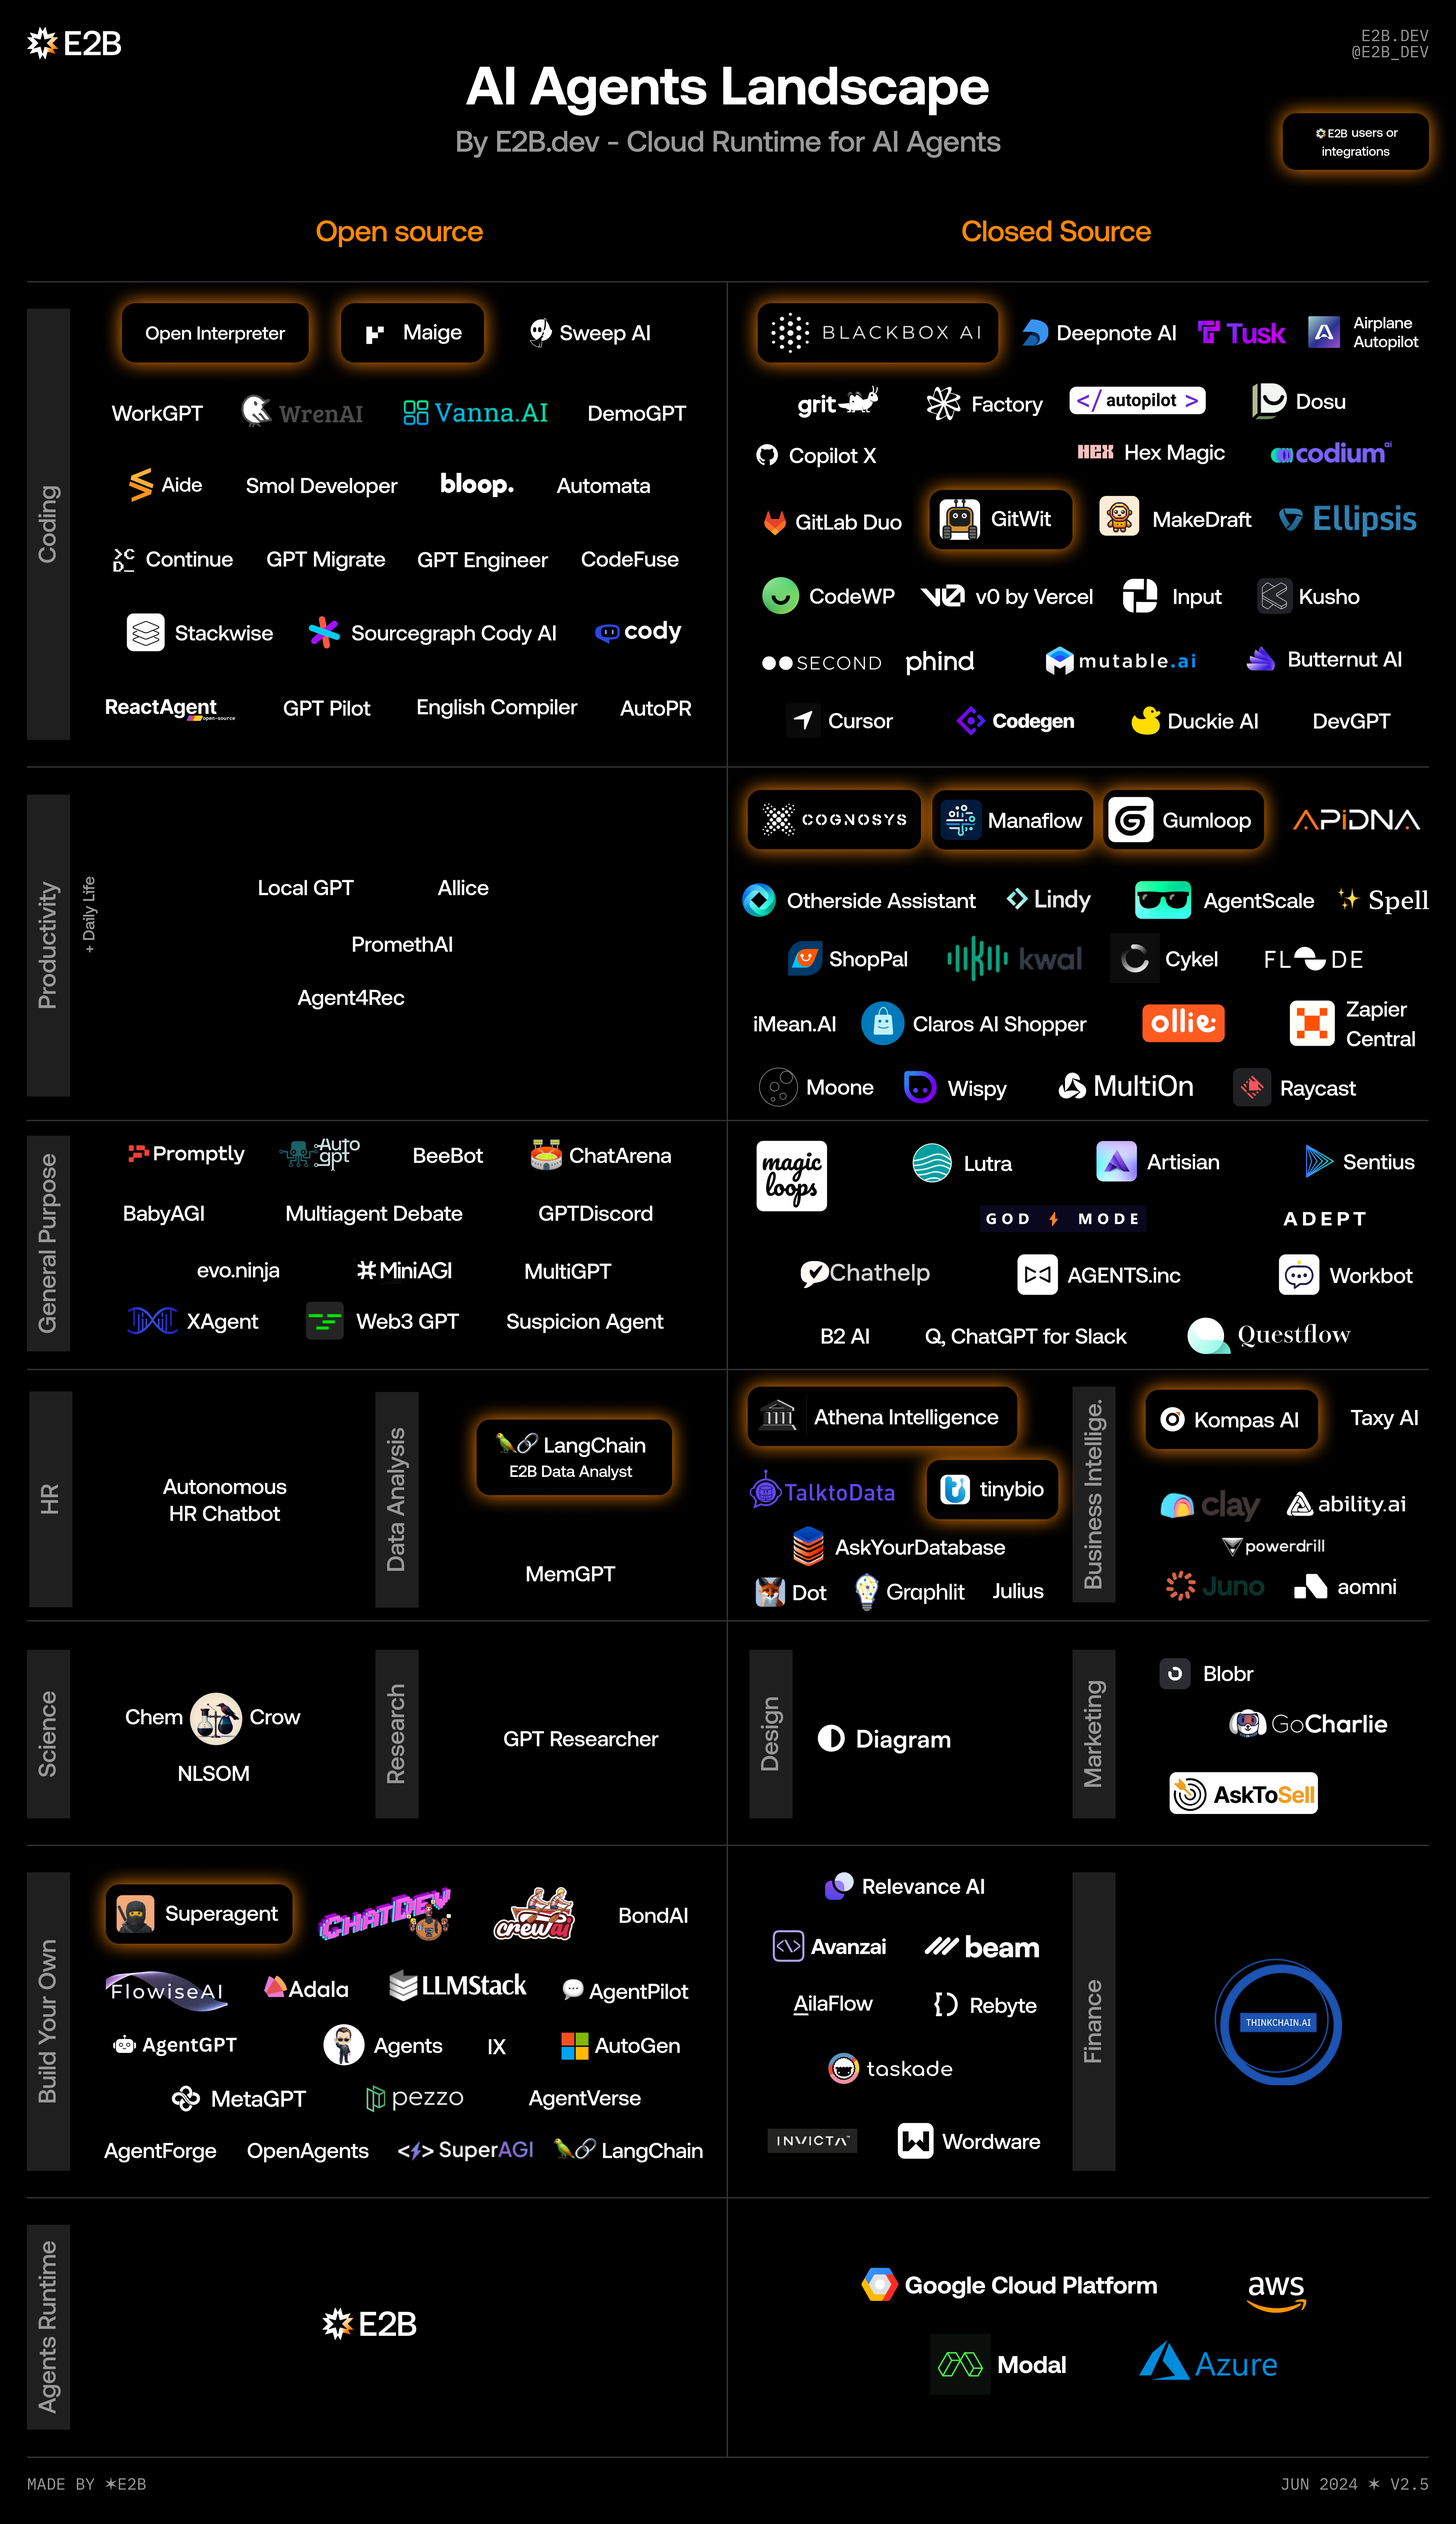
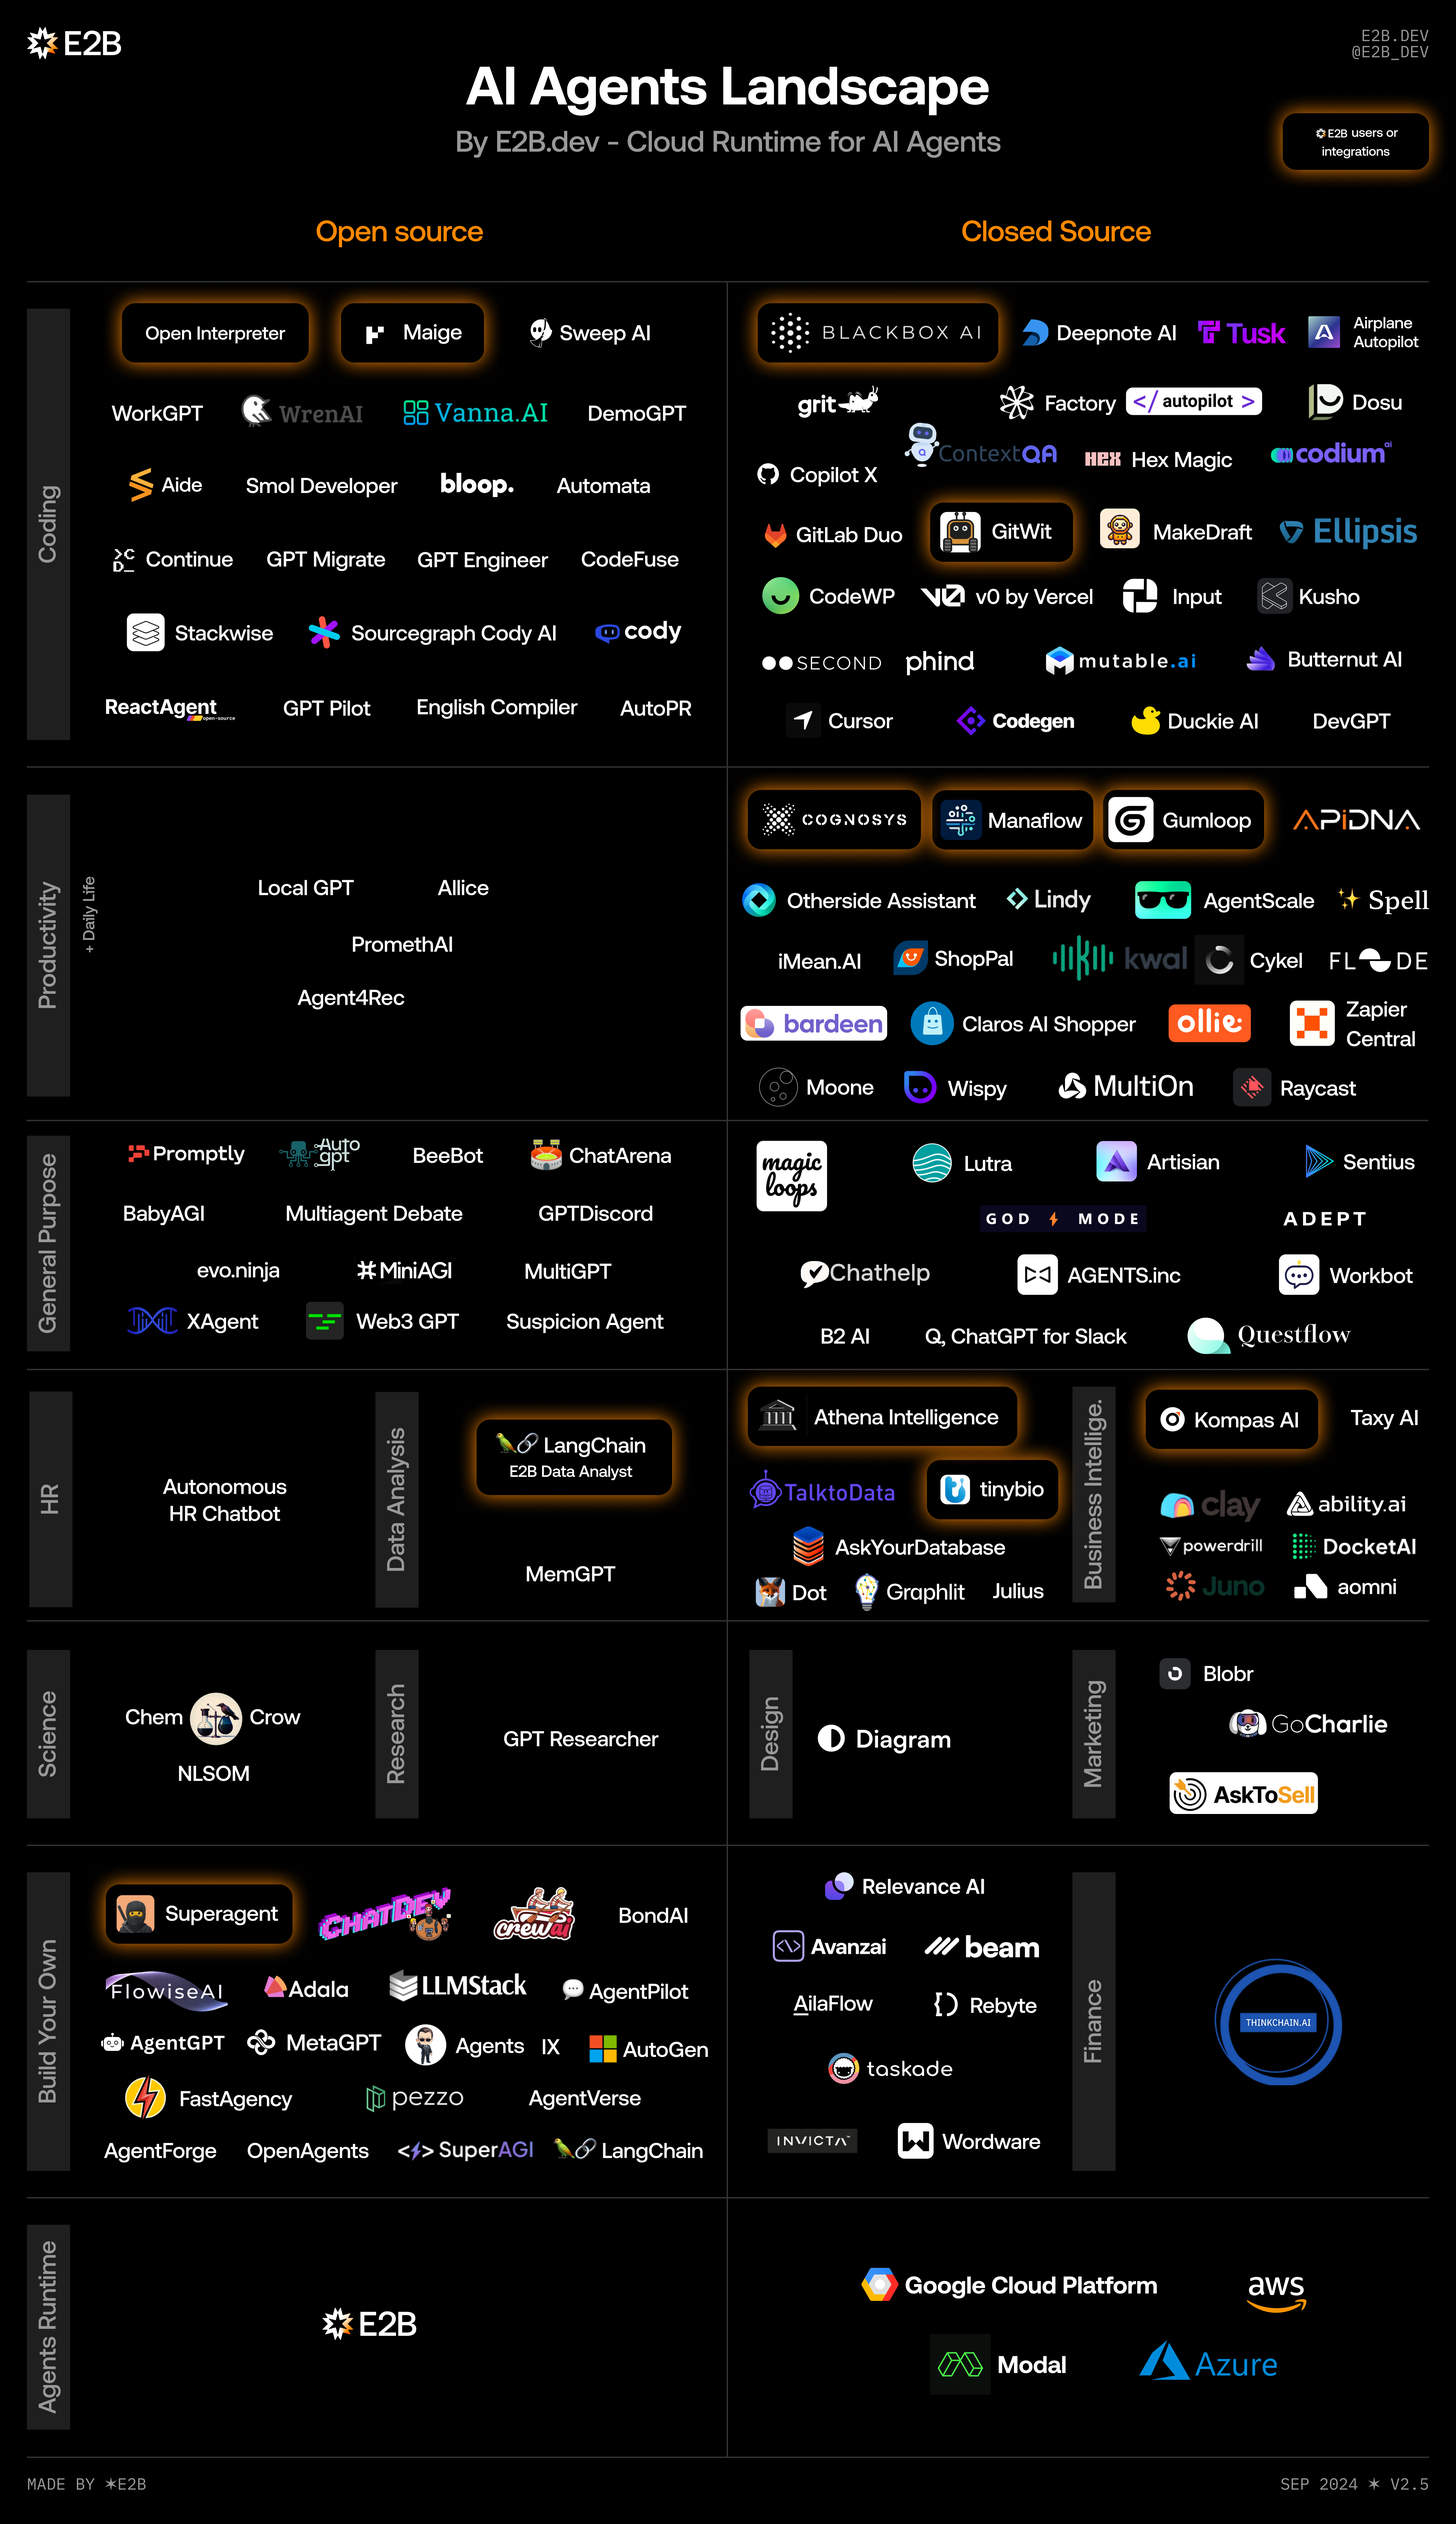
Update visual

diff --git a/README.md b/README.md
@@ -3760,6 +3760,27 @@ General purpose, Research
 
 </details>
 
+## [ContextQA](https://contextqa.com/)
+AI Agents for Software Testing
+
+<details>
+
+![image](https://contextqa.com/wp-content/themes/contextQA/assets/images/cqa-logo-with-text.svg)
+
+### Category
+Coding
+
+### Description
+- Agentic AI for Complete Test Coverage
+
+### Links
+- [Web](https://contextqa.com/)
+- [X (Twitter)](https://x.com/ContextQa)
+
+</details>
+
+
+
 ## [Cursor](https://www.cursor.so/)
 AI-powered Code Editor with VSCode-like UI
 
@@ -3849,6 +3870,26 @@ Design, Content creation
 
 ### Links
 - [Web](https://diagram.com/)
+
+</details>
+
+## [Docket AI](https://docketai.net/)
+AI Sales Engineer for somplex B2B sales
+
+<details>
+
+![image](https://cdn.prod.website-files.com/64b81d5300b4d493cead41a3/66a0a76ea06f179159040503_Docket%20Logo%201.svg)
+
+### Category
+Sales
+
+### Description
+- Docket AI is your personal AI Sales Engineer, empowers AEs to win more.
+- It provides instant sales answers, automated RFP responses, and insights from top producers.
+- Powered by the Sales Knowledge Lake™, Docket unifies your company’s sales data with genAI. Transforming sales productivity and win rates.
+
+### Links
+- [Web](https://docketai.net/)
 
 </details>
 
